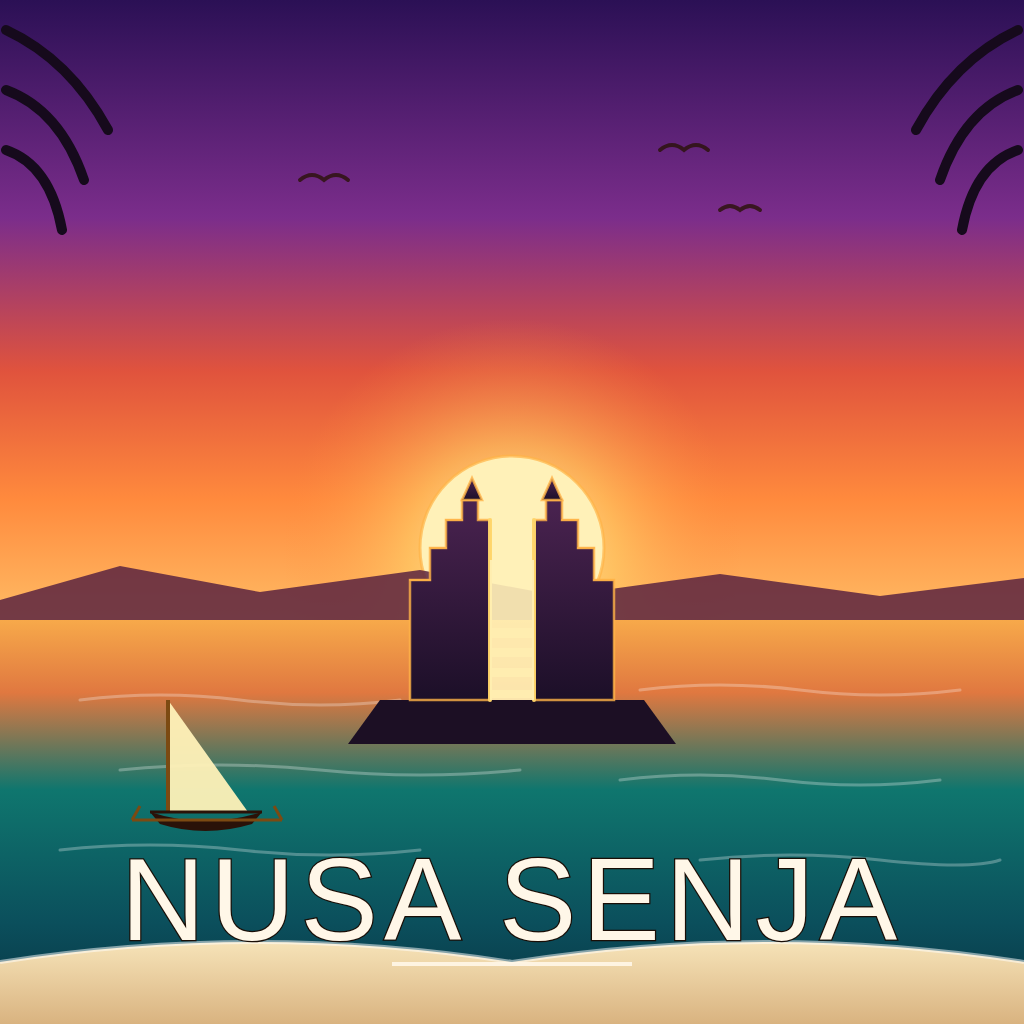
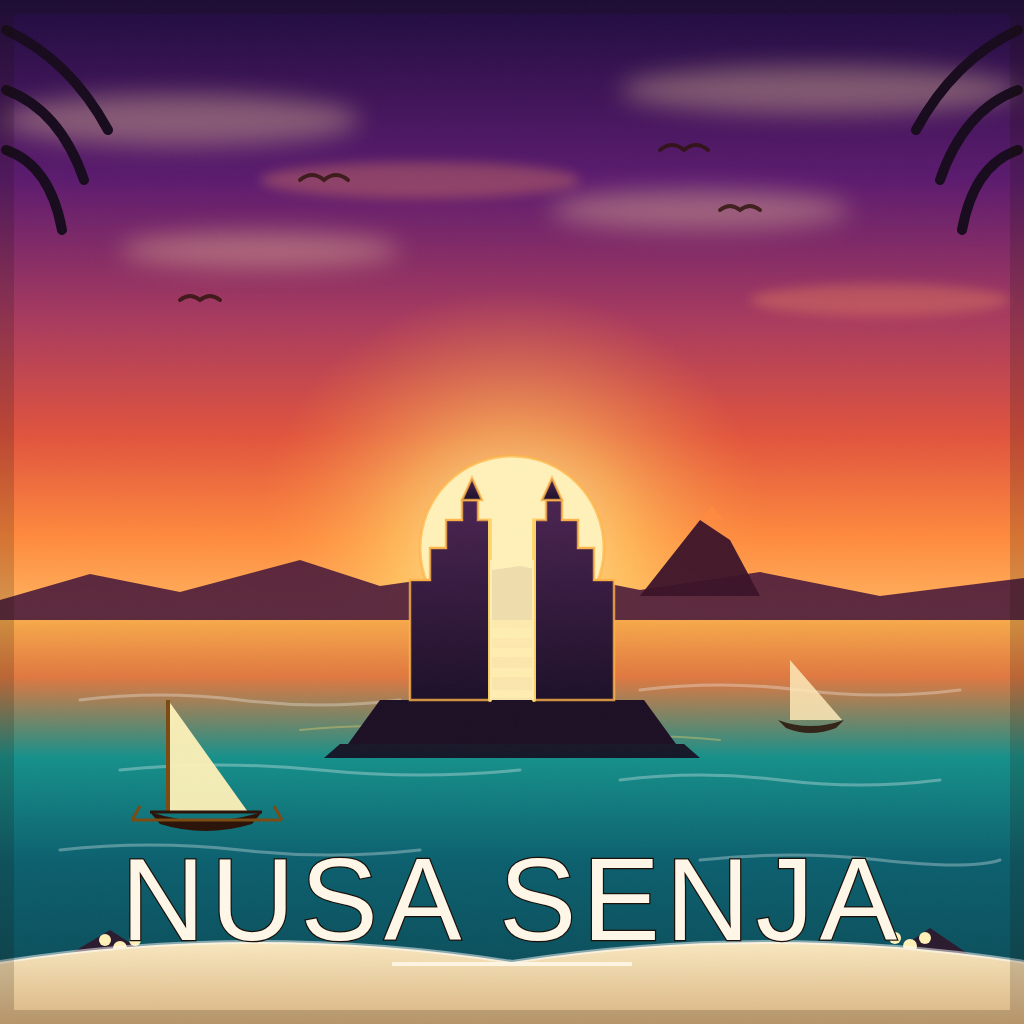
Richer poster v3: clouds, volcano island, second boat, foreground rocks and frangipani, film grain

diff --git a/page.html b/page.html
@@ -15,18 +15,20 @@
 <svg viewBox="0 0 1024 1024" xmlns="http://www.w3.org/2000/svg" role="img" aria-label="Travel poster for Nusa Senja, an island that does not exist">
   <defs>
     <linearGradient id="sky" x1="0" y1="0" x2="0" y2="1">
-      <stop offset="0" stop-color="#2b1055"/>
-      <stop offset="0.34" stop-color="#7b2d8b"/>
-      <stop offset="0.58" stop-color="#e0533d"/>
-      <stop offset="0.78" stop-color="#ff8a3d"/>
+      <stop offset="0" stop-color="#1d0b3d"/>
+      <stop offset="0.28" stop-color="#5b1a6e"/>
+      <stop offset="0.5" stop-color="#a83a5e"/>
+      <stop offset="0.68" stop-color="#e0533d"/>
+      <stop offset="0.84" stop-color="#ff8a3d"/>
       <stop offset="1" stop-color="#ffc46b"/>
     </linearGradient>
     <linearGradient id="sea" x1="0" y1="0" x2="0" y2="1">
       <stop offset="0" stop-color="#f7a94a"/>
-      <stop offset="0.18" stop-color="#e07840"/>
-      <stop offset="0.42" stop-color="#0f766e"/>
-      <stop offset="0.75" stop-color="#0b4f5c"/>
-      <stop offset="1" stop-color="#07303f"/>
+      <stop offset="0.14" stop-color="#e07840"/>
+      <stop offset="0.34" stop-color="#15908a"/>
+      <stop offset="0.6" stop-color="#0b5f6e"/>
+      <stop offset="0.85" stop-color="#0b4f5c"/>
+      <stop offset="1" stop-color="#062a38"/>
     </linearGradient>
     <radialGradient id="sunGlow" cx="0.5" cy="0.5" r="0.5">
       <stop offset="0" stop-color="#fff3c4" stop-opacity="0.95"/>
@@ -34,35 +36,52 @@
       <stop offset="1" stop-color="#ff8a3d" stop-opacity="0"/>
     </radialGradient>
     <linearGradient id="sand" x1="0" y1="0" x2="0" y2="1">
-      <stop offset="0" stop-color="#f6e3b8"/>
+      <stop offset="0" stop-color="#f9e8c0"/>
       <stop offset="1" stop-color="#d9b380"/>
     </linearGradient>
     <linearGradient id="gateFace" x1="0" y1="0" x2="0" y2="1">
       <stop offset="0" stop-color="#4a2350"/>
       <stop offset="1" stop-color="#1c0f28"/>
     </linearGradient>
+    <filter id="grain"><feTurbulence type="fractalNoise" baseFrequency="0.9" numOctaves="2" stitchTiles="stitch"/><feColorMatrix type="saturate" values="0"/></filter>
+    <filter id="soft"><feGaussianBlur stdDeviation="6"/></filter>
+    <filter id="soft2"><feGaussianBlur stdDeviation="12"/></filter>
   </defs>
 
   <!-- sky -->
   <rect x="0" y="0" width="1024" height="640" fill="url(#sky)"/>
+  <!-- clouds: soft warm streaks -->
+  <g fill="#ffd9a0" opacity="0.35" filter="url(#soft2)">
+    <ellipse cx="180" cy="120" rx="180" ry="26"/>
+    <ellipse cx="820" cy="90" rx="200" ry="24"/>
+    <ellipse cx="700" cy="210" rx="150" ry="20"/>
+    <ellipse cx="260" cy="250" rx="140" ry="18"/>
+  </g>
+  <g fill="#ff9a5c" opacity="0.3" filter="url(#soft)">
+    <ellipse cx="420" cy="180" rx="160" ry="18"/>
+    <ellipse cx="880" cy="300" rx="130" ry="16"/>
+  </g>
   <!-- sun + glow -->
-  <circle cx="512" cy="548" r="230" fill="url(#sunGlow)"/>
+  <circle cx="512" cy="548" r="260" fill="url(#sunGlow)"/>
   <circle cx="512" cy="548" r="92" fill="#fff1b8"/>
   <circle cx="512" cy="548" r="92" fill="none" stroke="#ffb347" stroke-width="3" opacity="0.7"/>
-  <!-- distant headland -->
-  <path d="M0 600 L120 566 L260 592 L420 570 L560 596 L720 574 L880 596 L1024 578 L1024 640 L0 640 Z" fill="#5b2340" opacity="0.85"/>
+  <!-- distant volcanic island + headland -->
+  <path d="M0 600 L90 574 L180 592 L300 560 L380 586 L520 566 L640 590 L760 572 L880 596 L1024 578 L1024 640 L0 640 Z" fill="#4a1a3a" opacity="0.9"/>
+  <path d="M640 596 L700 520 L730 540 L760 596 Z" fill="#3a1228" opacity="0.95"/>
+  <path d="M700 520 L712 505 L724 520 Z" fill="#ff8a3d" opacity="0.8"/>
   <!-- sea -->
   <rect x="0" y="620" width="1024" height="404" fill="url(#sea)"/>
   <!-- sun reflection column -->
-  <g fill="#ffd66b" opacity="0.85">
+  <g fill="#ffd66b" opacity="0.9">
     <rect x="470" y="628" width="84" height="10" rx="5"/>
     <rect x="452" y="648" width="120" height="9" rx="4.5"/>
     <rect x="466" y="668" width="92" height="9" rx="4.5"/>
     <rect x="446" y="690" width="132" height="8" rx="4"/>
     <rect x="470" y="712" width="84" height="8" rx="4"/>
+    <rect x="480" y="734" width="64" height="7" rx="3.5"/>
   </g>
   <!-- wave lines -->
-  <g stroke="#ffffff" stroke-width="3" stroke-linecap="round" fill="none" opacity="0.28">
+  <g stroke="#ffffff" stroke-width="3" stroke-linecap="round" fill="none" opacity="0.3">
     <path d="M80 700 Q160 690 240 700 T400 700"/>
     <path d="M640 690 Q720 680 800 690 T960 690"/>
     <path d="M120 770 Q220 760 320 770 T520 770"/>
@@ -70,25 +89,27 @@
     <path d="M60 850 Q150 840 240 850 T420 850"/>
     <path d="M700 860 Q790 850 880 860 T1000 860"/>
   </g>
+  <g stroke="#ffd66b" stroke-width="2" stroke-linecap="round" fill="none" opacity="0.35">
+    <path d="M300 730 Q380 722 460 730"/>
+    <path d="M560 740 Q640 732 720 740"/>
+  </g>
 
-  <!-- rocky islet -->
+  <!-- rocky islet with reef -->
   <path d="M380 700 L644 700 L676 744 L348 744 Z" fill="#1c0f24"/>
+  <path d="M340 744 L684 744 L700 758 L324 758 Z" fill="#140a1e" opacity="0.9"/>
   <!-- candi bentar: split temple gate, shorter so the sun crowns it -->
   <g fill="url(#gateFace)" stroke="#ffb347" stroke-width="2.5" stroke-opacity="0.8">
-    <!-- left tower: stepped, top at y=500 -->
     <path d="M410 700 L410 580 L430 580 L430 548 L446 548 L446 520 L462 520 L462 500 L478 500 L478 520 L490 520 L490 700 Z"/>
-    <!-- right tower -->
     <path d="M534 700 L534 520 L546 520 L546 500 L562 500 L562 520 L578 520 L578 548 L594 548 L594 580 L614 580 L614 700 Z"/>
-    <!-- crowns -->
     <path d="M462 500 L472 478 L482 500 Z"/>
     <path d="M542 500 L552 478 L562 500 Z"/>
   </g>
-  <!-- tier highlight lines so the steps read -->
+  <!-- tier highlight lines -->
   <g stroke="#ffb347" stroke-width="2" stroke-linecap="round" fill="none" opacity="0.85">
     <path d="M410 580 L430 580 M430 548 L446 548 M446 520 L462 520"/>
     <path d="M594 580 L614 580 M578 548 L594 548 M562 520 L578 520"/>
   </g>
-  <!-- warm rim light on the gate's inner edges (the split) -->
+  <!-- warm rim light on the gate's inner edges -->
   <g stroke="#ffd66b" stroke-width="4" stroke-linecap="round" fill="none" opacity="0.95">
     <path d="M490 700 L490 520"/>
     <path d="M534 700 L534 520"/>
@@ -105,6 +126,11 @@
     <path d="M132 820 L282 820" stroke="#7c4a12" stroke-width="3"/>
     <path d="M132 820 L140 806 M282 820 L274 806" stroke="#7c4a12" stroke-width="3"/>
   </g>
+  <!-- second small boat, far -->
+  <g opacity="0.85">
+    <path d="M790 720 L790 660 L842 720 Z" fill="#ffe9b8"/>
+    <path d="M778 720 Q810 732 844 720 L836 728 Q810 738 786 728 Z" fill="#2a1208"/>
+  </g>
 
   <!-- palm fronds: thin elegant arcs from the top corners -->
   <g stroke="#160a1c" stroke-width="10" stroke-linecap="round" fill="none">
@@ -120,6 +146,17 @@
     <path d="M300 180 Q312 170 324 180 Q336 170 348 180"/>
     <path d="M660 150 Q672 140 684 150 Q696 140 708 150"/>
     <path d="M720 210 Q730 202 740 210 Q750 202 760 210"/>
+    <path d="M180 300 Q190 292 200 300 Q210 292 220 300"/>
+  </g>
+
+  <!-- foreground rocks + frangipani on the sand -->
+  <g fill="#2a1a2e">
+    <path d="M60 960 L110 930 L160 962 Z"/>
+    <path d="M880 962 L930 928 L980 962 Z"/>
+  </g>
+  <g fill="#fff1b8">
+    <circle cx="120" cy="948" r="7"/><circle cx="135" cy="940" r="6"/><circle cx="105" cy="940" r="6"/>
+    <circle cx="910" cy="946" r="7"/><circle cx="925" cy="938" r="6"/><circle cx="895" cy="938" r="6"/>
   </g>
 
   <!-- sand crescent -->
@@ -129,6 +166,10 @@
   <!-- place name -->
   <text x="512" y="940" text-anchor="middle" class="name">NUSA SENJA</text>
   <rect x="392" y="962" width="240" height="4" fill="#fff7e8" opacity="0.9"/>
+
+  <!-- film grain + vignette for a printed-poster feel -->
+  <rect x="0" y="0" width="1024" height="1024" filter="url(#grain)" opacity="0.03"/>
+  <rect x="0" y="0" width="1024" height="1024" fill="none" stroke="#1a0e06" stroke-width="28" opacity="0.18"/>
 </svg>
 </body>
 </html>
